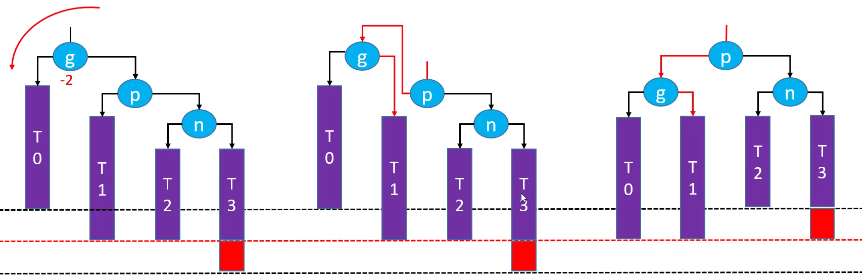
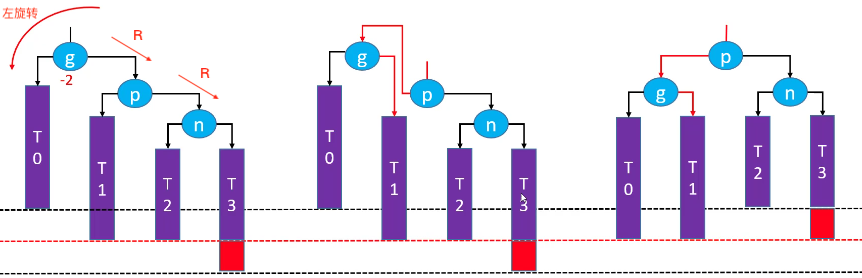
Site updated: 2021-01-22 18:21:59

diff --git a/2021/01/15/数据结构与算法/AVL树/index.html b/2021/01/15/数据结构与算法/AVL树/index.html
@@ -86,7 +86,7 @@
 <meta property="og:image" content="http://yoursite.com/2021/01/15/数据结构与算法/AVL树/AVL树08.png">
 <meta property="og:image" content="http://yoursite.com/2021/01/15/数据结构与算法/AVL树/AVL树09.png">
 <meta property="og:image" content="http://yoursite.com/2021/01/15/数据结构与算法/AVL树/AVL树10.png">
-<meta property="og:updated_time" content="2021-01-22T09:58:10.783Z">
+<meta property="og:updated_time" content="2021-01-22T10:21:19.626Z">
 <meta name="twitter:card" content="summary">
 <meta name="twitter:title" content="AVL树">
 <meta name="twitter:description" content="AVL树是最先发明的自平衡二叉查找树。在AVL树中任何节点的两个子树的高度最大差别为1，所以它也被称为高度平衡树。增加和删除可能需要通过一次或多次树旋转来重新平衡这个树。AVL树得名于它的发明者G. M. Adelson-Velsky和E. M. Landis，他们在1962年的论文《An algorithm for the organization of information》中发表了它。">
@@ -364,7 +364,7 @@
 </ol>
 <p>旋转后的子树又恢复了平衡，仍然是一棵二叉搜索树：T0 &lt; g &lt; T1 &lt; p &lt; T2 &lt; n &lt; T3。</p>
 <p>注意：一定要修改<code>T2</code>、<code>p</code>、<code>g</code>的 parent 属性；依次更新<code>g</code>、<code>p</code>的高度（因为旋转后，<code>g</code>是<code>p</code>的右子树，所以先计算子树的高度，然后 +1 就是<code>p</code>的高度）。<br><img src="/2021/01/15/数据结构与算法/AVL树/AVL树09.png" alt="AVL树"></p>
-<h2 id="RR-左旋转"><a href="#RR-左旋转" class="headerlink" title="RR-左旋转"></a>RR-左旋转</h2><ol>
+<h2 id="RR-左旋转（单旋）"><a href="#RR-左旋转（单旋）" class="headerlink" title="RR-左旋转（单旋）"></a>RR-左旋转（单旋）</h2><ol>
 <li><code>g.right = p.left</code></li>
 <li><code>p.left = g</code></li>
 <li>让<code>p</code>成为这个子树的根节点</li>
@@ -573,7 +573,7 @@
             
 
             
-              <div class="post-toc-content"><ol class="nav"><li class="nav-item nav-level-1"><a class="nav-link" href="#平衡二叉搜索树（Balanced-Binary-Search-Tree）"><span class="nav-number">1.</span> <span class="nav-text">平衡二叉搜索树（Balanced Binary Search Tree）</span></a><ol class="nav-child"><li class="nav-item nav-level-2"><a class="nav-link" href="#二叉搜索树的复杂度分析"><span class="nav-number">1.1.</span> <span class="nav-text">二叉搜索树的复杂度分析</span></a></li><li class="nav-item nav-level-2"><a class="nav-link" href="#平衡（Balance）"><span class="nav-number">1.2.</span> <span class="nav-text">平衡（Balance）</span></a></li><li class="nav-item nav-level-2"><a class="nav-link" href="#理想平衡"><span class="nav-number">1.3.</span> <span class="nav-text">理想平衡</span></a></li><li class="nav-item nav-level-2"><a class="nav-link" href="#如何改进二叉搜索树？"><span class="nav-number">1.4.</span> <span class="nav-text">如何改进二叉搜索树？</span></a></li><li class="nav-item nav-level-2"><a class="nav-link" href="#经典的平衡二叉搜索树"><span class="nav-number">1.5.</span> <span class="nav-text">经典的平衡二叉搜索树</span></a><ol class="nav-child"><li class="nav-item nav-level-3"><a class="nav-link" href="#AVL-树"><span class="nav-number">1.5.1.</span> <span class="nav-text">AVL 树</span></a></li><li class="nav-item nav-level-3"><a class="nav-link" href="#红黑树"><span class="nav-number">1.5.2.</span> <span class="nav-text">红黑树</span></a></li></ol></li></ol></li><li class="nav-item nav-level-1"><a class="nav-link" href="#AVL-树-1"><span class="nav-number">2.</span> <span class="nav-text">AVL 树</span></a><ol class="nav-child"><li class="nav-item nav-level-2"><a class="nav-link" href="#平衡因子"><span class="nav-number">2.1.</span> <span class="nav-text">平衡因子</span></a></li><li class="nav-item nav-level-2"><a class="nav-link" href="#添加导致的失衡"><span class="nav-number">2.2.</span> <span class="nav-text">添加导致的失衡</span></a></li><li class="nav-item nav-level-2"><a class="nav-link" href="#LL-右旋转（单旋）"><span class="nav-number">2.3.</span> <span class="nav-text">LL-右旋转（单旋）</span></a></li><li class="nav-item nav-level-2"><a class="nav-link" href="#RR-左旋转"><span class="nav-number">2.4.</span> <span class="nav-text">RR-左旋转</span></a></li></ol></li></ol></div>
+              <div class="post-toc-content"><ol class="nav"><li class="nav-item nav-level-1"><a class="nav-link" href="#平衡二叉搜索树（Balanced-Binary-Search-Tree）"><span class="nav-number">1.</span> <span class="nav-text">平衡二叉搜索树（Balanced Binary Search Tree）</span></a><ol class="nav-child"><li class="nav-item nav-level-2"><a class="nav-link" href="#二叉搜索树的复杂度分析"><span class="nav-number">1.1.</span> <span class="nav-text">二叉搜索树的复杂度分析</span></a></li><li class="nav-item nav-level-2"><a class="nav-link" href="#平衡（Balance）"><span class="nav-number">1.2.</span> <span class="nav-text">平衡（Balance）</span></a></li><li class="nav-item nav-level-2"><a class="nav-link" href="#理想平衡"><span class="nav-number">1.3.</span> <span class="nav-text">理想平衡</span></a></li><li class="nav-item nav-level-2"><a class="nav-link" href="#如何改进二叉搜索树？"><span class="nav-number">1.4.</span> <span class="nav-text">如何改进二叉搜索树？</span></a></li><li class="nav-item nav-level-2"><a class="nav-link" href="#经典的平衡二叉搜索树"><span class="nav-number">1.5.</span> <span class="nav-text">经典的平衡二叉搜索树</span></a><ol class="nav-child"><li class="nav-item nav-level-3"><a class="nav-link" href="#AVL-树"><span class="nav-number">1.5.1.</span> <span class="nav-text">AVL 树</span></a></li><li class="nav-item nav-level-3"><a class="nav-link" href="#红黑树"><span class="nav-number">1.5.2.</span> <span class="nav-text">红黑树</span></a></li></ol></li></ol></li><li class="nav-item nav-level-1"><a class="nav-link" href="#AVL-树-1"><span class="nav-number">2.</span> <span class="nav-text">AVL 树</span></a><ol class="nav-child"><li class="nav-item nav-level-2"><a class="nav-link" href="#平衡因子"><span class="nav-number">2.1.</span> <span class="nav-text">平衡因子</span></a></li><li class="nav-item nav-level-2"><a class="nav-link" href="#添加导致的失衡"><span class="nav-number">2.2.</span> <span class="nav-text">添加导致的失衡</span></a></li><li class="nav-item nav-level-2"><a class="nav-link" href="#LL-右旋转（单旋）"><span class="nav-number">2.3.</span> <span class="nav-text">LL-右旋转（单旋）</span></a></li><li class="nav-item nav-level-2"><a class="nav-link" href="#RR-左旋转（单旋）"><span class="nav-number">2.4.</span> <span class="nav-text">RR-左旋转（单旋）</span></a></li></ol></li></ol></div>
             
 
           </div>

diff --git a/css/main.css b/css/main.css
@@ -1818,7 +1818,7 @@ pre .javascript .function {
   width: 4px;
   height: 4px;
   border-radius: 50%;
-  background: #1d99d9;
+  background: #ffb6a1;
 }
 .links-of-blogroll {
   font-size: 13px;
